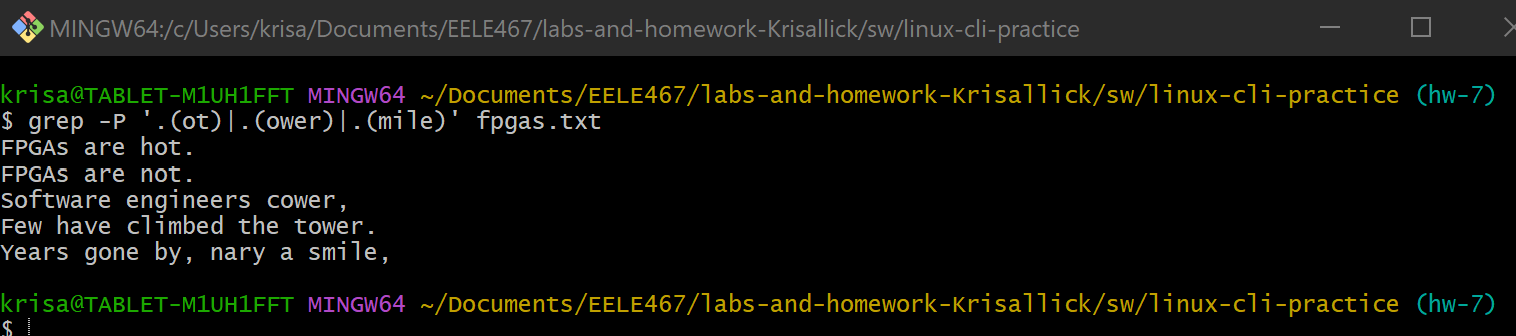
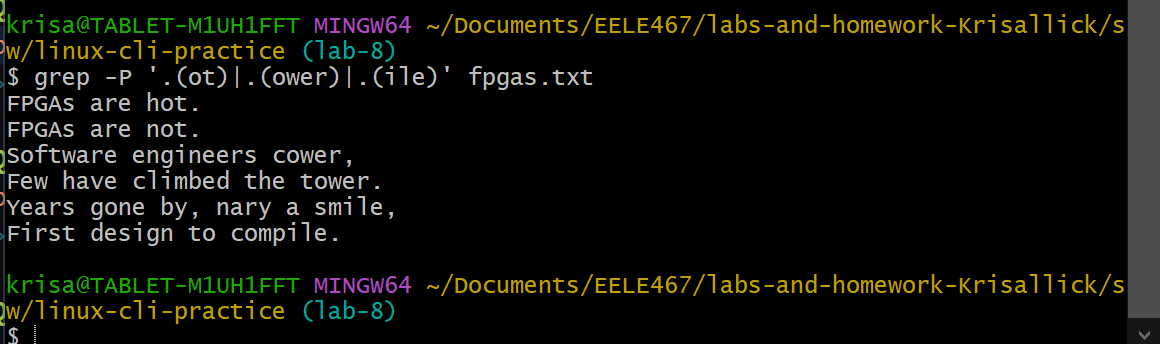
found an issue in hw7, fixed it

diff --git a/docs/hw7.md b/docs/hw7.md
@@ -54,7 +54,7 @@ In this assignment we practiced a multitude of linux commands.
 <reg><img src="assets//hw7_screenshots/question_15.png">
 
 ### Question 16
-`grep -P '.(ot)|.(ower)|.(mile)' fpgas.txt`
+`grep -P '.(ot)|.(ower)|.(ile)' fpgas.txt`
 <reg><img src="assets//hw7_screenshots/question_16.png">
 
 ### Question 17
